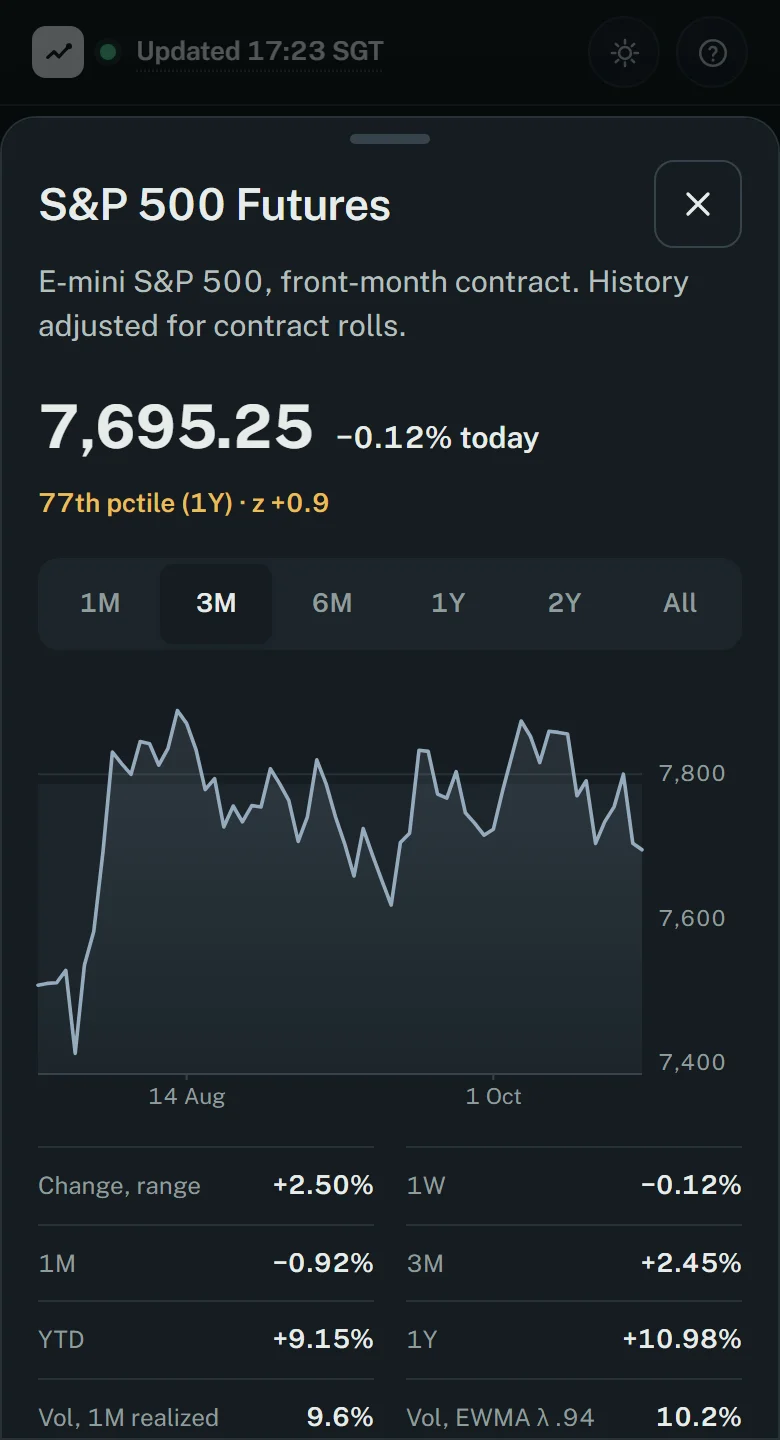
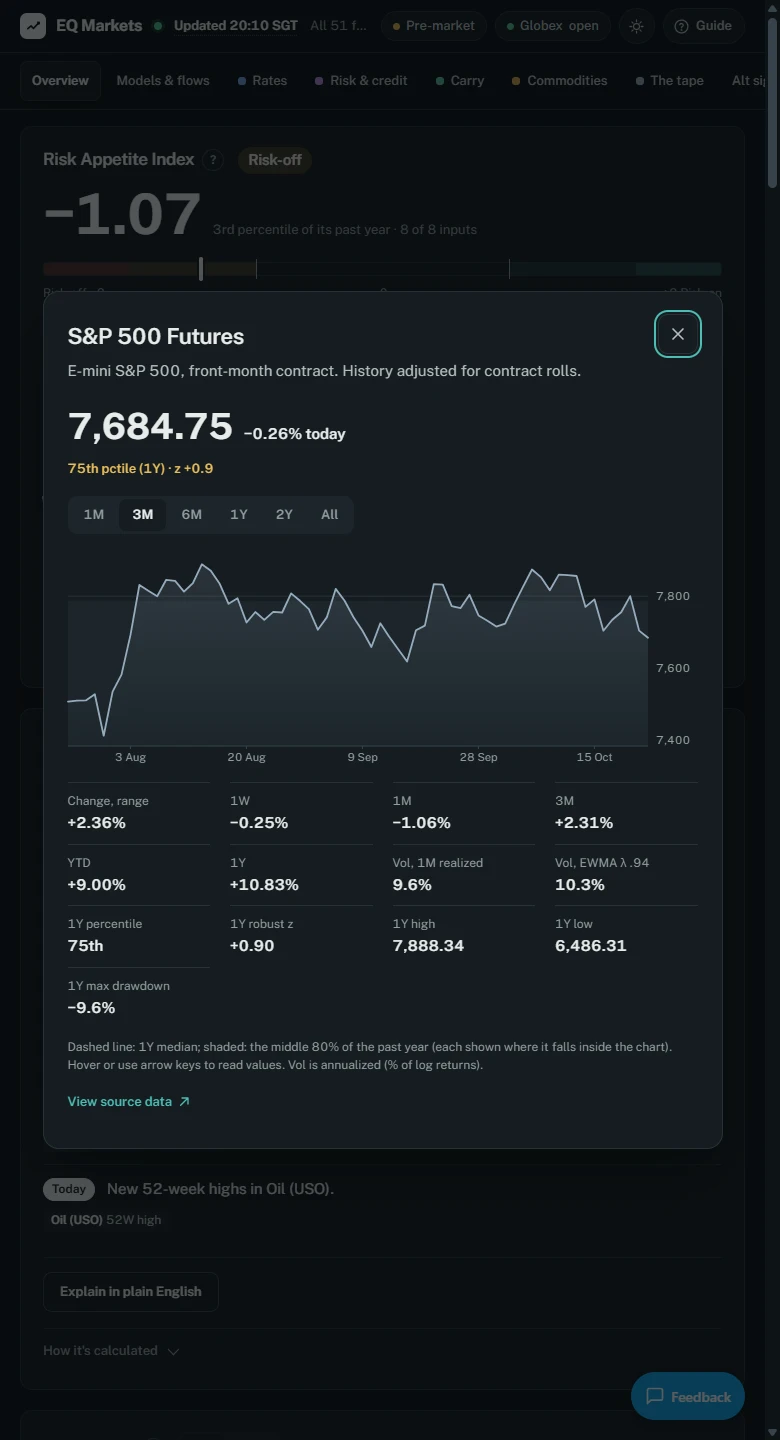
Add Oracular to the portfolio, refresh the Markets card
Generated by Mistral Vibe.

diff --git a/index.html b/index.html
@@ -184,11 +184,11 @@
           <article class="card">
             <div class="card__body">
               <h3><a class="card__title" href="https://markets.ethantam.dev" target="_blank" rel="noopener noreferrer">Equarian Markets <span class="arrow" aria-hidden="true">↗</span></a></h3>
-              <p class="card__meta mono"><span>Built Jul 2026</span> · <span>on GitLab since Oct 2026</span> · <span>36 indicators</span> · <span>4 models</span></p>
+              <p class="card__meta mono"><span>Built Jul 2026</span> · <span>on GitLab since Oct 2026</span> · <span>45 indicators</span> · <span>4 models</span></p>
               <p class="card__why">Before I trade micro futures I want rates, credit, vol and yen carry on one screen, read the way a desk would read them.</p>
-              <p>It pulls free data from FRED, Yahoo, the CFTC and the BOJ. In the browser it runs four models: a risk appetite index, a growth and inflation regime map, the absorption ratio for how fragile markets are, and the NY Fed's recession model. A daily read spells out what stands out, like oil and grains rising while stocks fall, with the numbers behind it.</p>
+              <p>It pulls free data from FRED, Yahoo, the CFTC and the BOJ. In the browser it runs four models: a risk appetite index, a growth and inflation regime map, the absorption ratio for how fragile markets are, and the NY Fed's recession model. A daily read spells out what stands out, like oil and grains rising while stocks fall, with the numbers behind it. An alt signals tab keeps the market-wide curiosities: the Pentagon Pizza Index, the Stripper Index and the moon, each tested against the index to say whether it has ever held up.</p>
               <ul class="tags mono" aria-label="Built with">
-                <li>JavaScript</li><li>Vite</li><li>Netlify</li><li>PWA</li>
+                <li>JavaScript</li><li>Vite</li><li>Cloudflare Pages</li><li>PWA</li>
               </ul>
               <a class="card__src mono" href="https://gitlab.com/eatentam/eqmarkets" target="_blank" rel="noopener noreferrer">Source</a>
             </div>
@@ -213,6 +213,22 @@
             <div class="card__media">
               <img src="assets/list-leaderboard.webp" alt="The List leaderboard: restaurants ranked by combined score, each with its price tier and when it was visited. Demo data." width="390" height="720" loading="lazy" decoding="async">
               <img src="assets/list-place.webp" alt="The List place page: one restaurant's scores for food, ambiance, aesthetics and service from each person. Demo data." width="390" height="720" loading="lazy" decoding="async">
+            </div>
+          </article>
+
+          <article class="card">
+            <div class="card__body">
+              <h3><a class="card__title" href="https://oracular.ethantam.dev" target="_blank" rel="noopener noreferrer">Oracular <span class="arrow" aria-hidden="true">↗</span></a></h3>
+              <p class="card__meta mono"><span>Built Sep 2026</span> · <span>on GitLab since Oct 2026</span></p>
+              <p class="card__why">I wanted the read a desk would write on one ticker, every number on the page and nothing taken on faith.</p>
+              <p>Any US ticker, read off live data: a Council of twelve seats votes on the numbers, an AI writes the plain-English memo and argues both sides, and seasonality, derivatives and levels each show their work. There's a Market tab too, with a Fear &amp; Greed index built from seven indicators, plus a chat that answers with the ticker's own data in front of it.</p>
+              <ul class="tags mono" aria-label="Built with">
+                <li>React</li><li>Vite</li><li>Tailwind</li><li>Cloudflare Workers</li><li>Mistral AI</li>
+              </ul>
+            </div>
+            <div class="card__media">
+              <img src="assets/oracular-market.webp" alt="Oracular Market tab: the Fear &amp; Greed Index gauge, its 180-day history chart, and the seven indicator scores. Live data." width="390" height="720" loading="lazy" decoding="async">
+              <img src="assets/oracular-overview.webp" alt="Oracular Overview for SPY: live price, a one-year candle chart, and the Council's verdict card. Live data." width="390" height="720" loading="lazy" decoding="async">
             </div>
           </article>
 
@@ -248,7 +264,7 @@
       </section>
 
       <footer class="foot mono">
-        <p class="colophon">Plain HTML, CSS and a bit of JavaScript, no framework. Set in Geist and Instrument Serif; layout borrows from Brittany Chiang's site. The painting is Bosschaert's <i>Vase of Flowers in a Window</i>, from the Mauritshuis (public domain). Last updated 19 Oct 2026.</p>
+        <p class="colophon">Plain HTML, CSS and a bit of JavaScript, no framework. Set in Geist and Instrument Serif; layout borrows from Brittany Chiang's site. The painting is Bosschaert's <i>Vase of Flowers in a Window</i>, from the Mauritshuis (public domain). Last updated 23 Oct 2026.</p>
         <button type="button" class="hint" data-open-term><span class="hint__key">Press <kbd>~</kbd> for a terminal</span><span class="hint__tap">Open the terminal</span></button>
       </footer>
     </main>

diff --git a/main.js b/main.js
@@ -261,6 +261,7 @@
     list: "https://list.ethantam.dev",
     markets: "https://markets.ethantam.dev",
     journal: "https://futuretracker.ethantam.dev/?demo",
+    oracular: "https://oracular.ethantam.dev",
   };
   const a = (href, text = href) => `<a href="${href}" target="_blank" rel="noopener">${text}</a>`;
   const esc = (t) => String(t).replace(/[&<>"']/g, (ch) => `&#${ch.charCodeAt(0)};`);
@@ -282,7 +283,7 @@
       "record      background, briefly",
       "watchlist   prices I check too often, live",
       "contact     how to reach me",
-      "open &lt;x&gt;    open gitlab | linkedin | 20bucks | list | markets | journal",
+      "open &lt;x&gt;    open gitlab | linkedin | 20bucks | list | markets | journal | oracular",
       "tulip       a cautionary tale",
       "clear       clear the screen",
       "exit        close (or press esc)",
@@ -297,6 +298,7 @@
       `20bucks     personal finance PWA: splits, PayLater, P&L, AI review   ${a(LINKS["20bucks"], "app")} ${a("https://gitlab.com/eatentam/moneytracker", "src")}`,
       `Markets     macro dashboard: risk, regime, absorption, recession     ${a(LINKS.markets, "app")} ${a("https://gitlab.com/eatentam/eqmarkets", "src")}`,
       `The List    ratings, leaderboard, auto want list, Telegram bot       ${a(LINKS.list, "app")} ${a("https://gitlab.com/eatentam/thelist", "src")}`,
+      `Oracular    research terminal: council votes, seasonality, options   ${a(LINKS.oracular, "app")}`,
       `Tally       escrow trust layer: Cardano, evidence, reliability       ${a("https://github.com/xiaoyang4c/actual-token2049-hackathon-repo", "src")}`,
     ].join("\n"),
     record: () => [

diff --git a/README.md b/README.md
@@ -36,7 +36,7 @@ Settings: none on the site. The CI deploy needs a `CLOUDFLARE_API_TOKEN` CI/CD v
 - **Ticker:** live prices for a watchlist of stocks and crypto, fetched from Yahoo by the Worker (`/api/quotes`, edge-cached 60s, falls back to the last good result). If that endpoint isn't there, the page falls back to CoinGecko for crypto only.
 - **Painting:** Ambrosius Bosschaert the Elder, *Vase of Flowers in a Window* (c.1618, Mauritshuis, public domain), dithered in the browser on a canvas. Hover or tap to see the original.
 - **Layout:** on desktop the name and section nav stay pinned on the left while the rest scrolls on the right, and the nav marks the section you're reading (the layout follows Brittany Chiang's site). Phones and tablets get one column with sticky section titles.
-- **Project cards:** each project with why it exists, what it grew into, and two screenshots: 780×1440 captures saved as WebP in `assets/`. Live data for Equarian Markets; demo data for 20bucks, The List and Trade Journal; test data for Tally.
+- **Project cards:** each project with why it exists, what it grew into, and two screenshots: 780×1440 captures saved as WebP in `assets/`. Live data for Equarian Markets and Oracular; demo data for 20bucks, The List and Trade Journal; test data for Tally.
 - **Terminal:** press `~` anywhere (or the `~` button) and type `help`.
 - **Themes:** dark and light mode with a toggle button. Respects `prefers-color-scheme` by default, persists the choice in `localStorage`. The dithered painting re-renders in theme colours.
 - **Self-hosted fonts:** Geist, Geist Mono and Instrument Serif served as woff2 from `assets/fonts/` (latin subset only, about 80 KB in all). No Google Fonts dependency.
